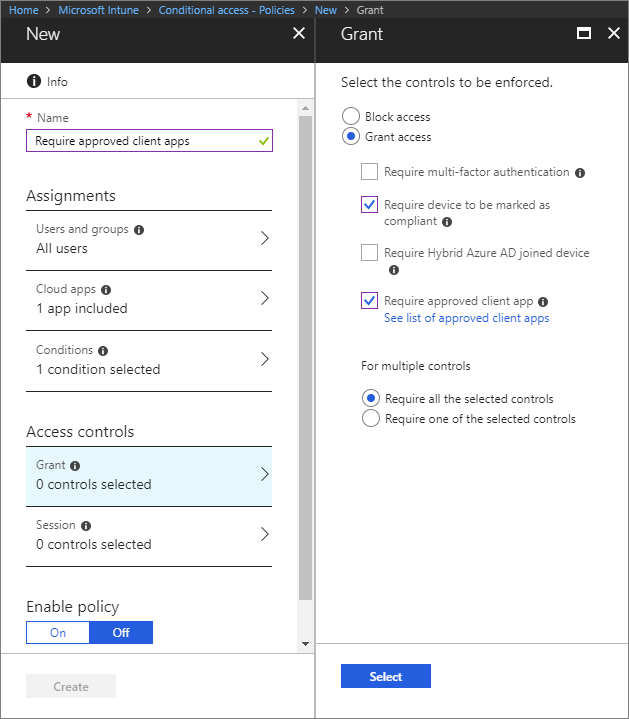
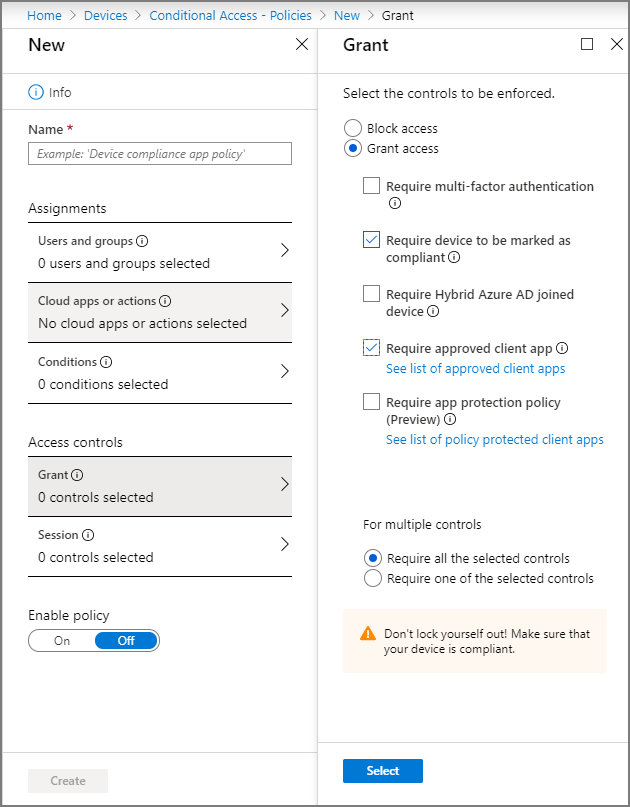
MEM revisions and general update

diff --git a/intune/protect/create-conditional-access-intune.md b/intune/protect/create-conditional-access-intune.md
@@ -8,7 +8,7 @@ keywords:
 author: brenduns
 ms.author: brenduns
 manager: dougeby
-ms.date: 02/22/2019
+ms.date: 11/18/2019
 ms.topic: conceptual
 ms.service: microsoft-intune
 ms.subservice: protect
@@ -30,76 +30,91 @@ ms.collection: M365-identity-device-management
 
 # Create a device-based Conditional Access policy
 
-With Intune, you can enhance Conditional Access in Azure Active Directory by adding mobile device compliance to the access controls. Once you’ve created an Intune compliance policy that defines the requirements for devices to be compliant, you can use a device’s compliance status to either allow or block access to your apps and services. You can do this by creating a Conditional Access policy that uses the setting **Require device to be marked as compliant**.  
+With Intune, enhance Conditional Access in Azure Active Directory by adding mobile device compliance to the access controls. With Intune compliance policy that defines requirements for devices to be compliant, you can use a device’s compliance status to either allow or block access to your apps and services. You can do this by creating a Conditional Access policy that uses the setting **Require device to be marked as compliant**.
 
-A Conditional Access policy specifies the app or services you want to protect, the conditions under which the apps or services can be accessed, and the users to whom the policy applies. Conditional Access is an Azure AD premium feature that is configurable in Azure Active Directory, but you can also set up these same policies from within the Intune portal. The Conditional Access node accessed from *Intune* is the same node as accessed from *Azure AD*.  
+A Conditional Access policy specifies the app or services you want to protect, the conditions under which the apps or services can be accessed, and the users the policy applies to. Although Conditional Access is an Azure AD premium feature, the Conditional Access node you access from *Intune* is the same node as accessed from *Azure AD*.
 
 > [!IMPORTANT]
 > Before you set up Conditional Access, you'll need to set up Intune device compliance policies to evaluate devices based on whether they meet specific requirements. See [Get started with device compliance policies in Intune](device-compliance-get-started.md).
 
 ## Create Conditional Access policy
 
-1. In the Intune portal, select **Conditional Access** > **Policies** > **New policy**.
-   
-    ![Create a new Conditional Access policy](./media/create-conditional-access-intune/create-ca.png)
- 
-2. Under **Assignments**, select **Users and groups**. 
-3. On the **Include** tab, identify the users or groups to whom you want this Conditional Access policy to apply. Once you’ve chosen whom to include, you can use the **Exclude** tab if there are any users, roles, or groups you want to exclude from this policy.  
-    - **All users**: Select this option to apply the policy to all users and groups, including internal and guest users.
-  
-    - **Select users and groups**: Select this option and specify one or more of the following options:
-  
-      a. **All guest users**: Select this option to include or exclude external guest users (for example, partners, external collaborators)
-       
-      b. **Directory roles**: Select one or more Azure AD roles to include or exclude users who are assigned these roles.
-      
-      c. **Users and groups**: Select this option to search for and select individual users or groups you want include or exclude.
-     
-       > [!TIP]  
-       > Test the policy against a smaller group of users to make sure it works as expected.
-4. Select **Done**.
-5. Under **Assignments**, select **Cloud apps**. 
-6. On the **Include tab**, identify the apps and services you want to protect with this Conditional Access policy. Then you can use the **Exclude** tab if there are any apps or services you want to exclude from this policy.
-    - **All cloud apps**: Select this option to apply the policy to all apps.
-      > [!IMPORTANT]  
-      > The Microsoft Azure Management app for access to the Azure portal is included in this list. Be sure to use the **Exclude** tab either here or in the **Users and groups** options to make sure you (or the users or groups you designate) will be able to sign in to the Azure portal. 
+1. Sign in to the [Microsoft Endpoint Manager Admin Center](https://go.microsoft.com/fwlink/?linkid=2109431).
 
-    - **Select apps**: Select this option, choose **Select**, and then use the applications list to search for and select the apps or services you want to protect.
-    
-      ![Configure assignments for Conditional Access policy](./media/create-conditional-access-intune/create-ca-select-apps.png)
+2. Select **Devices** > **Conditional Access** > **Policies** > **New policy**.
+  ![Create a new Conditional Access policy](./media/create-conditional-access-intune/create-ca.png)
 
-7. Select **Done**.
+3. Under **Assignments**, select **Users and groups**.
+
+4. On the **Include** tab, identify the users or groups that this Conditional Access policy applies to. Once you’ve chosen groups or users to include, use the **Exclude** tab if there are any users, roles, or groups you want to exclude from this policy.
+
+   - **All users**: Select this option to apply the policy to all users and groups, including internal and guest users.
+
+   - **Select users and groups**: Select this option and specify one or more of the following options:
+  
+     1. **All guest users**: Select this option to include or exclude external guest users (for example, partners, external collaborators)
+
+     2. **Directory roles**: Select one or more Azure AD roles to include or exclude users who are assigned these roles.
+
+     3. **Users and groups**: Select this option to search for and select individual users or groups you want include or exclude.
+
+        > [!TIP]
+        > Test the policy against a smaller group of users to make sure it works as expected.
+
+5. Select **Done**.
+
+6. Under **Assignments**, select **Cloud apps or actions**.
+
+7. On the **Include** tab, use available options to identify the apps and services you want to protect with this Conditional Access policy. Then you can use the **Exclude** tab if there are any apps or services you want to exclude from this policy.
+
+   - **All cloud apps**: Select this option to apply the policy to all apps.
+     > [!IMPORTANT]
+     > The Microsoft Azure Management app for access to the Azure portal is included in this list. Be sure to use the **Exclude** tab either here or in the **Users and groups** options to make sure you (or the users or groups you designate) will be able to sign in to the Azure portal. 
+
+   - **Select apps**: Select this option, choose **Select**, and then use the applications list to search for and select the apps or services you want to protect.
+
+   When ready, select **Done**.
+
 8. Under **Assignments**, select **Conditions**.
-    - **Sign-in risk**: Choose Yes to use Azure AD Identity Protection sign-in risk detection with this policy, and then choose the sign-in risk levels the policy should apply to.
-    - **Device platforms**: On the **Include** tab, identify the device platforms you want to this Conditional Access policy to apply to. Use the **Exclude** tab to exclude platforms from this policy.
-    - **Locations**: On the **Include** tab, specify whether the policy applies to any location, trusted network locations that are under the control of your IT department, or specific network locations. Use the **Exclude** tab to exclude network locations from this policy. 
-    - **Client apps**: Choose **Yes** to specify if the policy should apply to browser apps, mobile apps, and desktop clients. You can also select **Modern authentication clients** (such as Outlook for iOS or Outlook for Android) and **Exchange ActiveSync clients**.
-    - **Device state**: The Conditional Access policy will apply to all device states unless you choose Yes and specifically exclude the states Device Hybrid Azure AD joined or Device marked as compliant (or both).
-    
-      ![Set conditions for Conditional Access policy](./media/create-conditional-access-intune/create-ca-device-platforms.png)
 
-      > [!TIP]  
-      > If you want to protect both **Modern authentication** clients and **Exchange ActiveSync clients**, create two separate Conditional Access policies, one for each client type. Although Exchange ActiveSync supports modern authentication, the only condition that is supported by Exchange ActiveSync is platform. Other conditions, including multi-factor authentication, are not supported. To effectively protect access to Exchange Online from Exchange ActiveSync, create a Conditional Access policy that specifies the cloud app Office 365 Exchange Online and the client app Exchange ActiveSync with Apply policy only to supported platforms selected.
+   - **Sign-in risk**: Select *Yes* to use Azure AD Identity Protection sign-in risk detection with this policy, and then choose the sign-in risk levels the policy should apply to.
+
+   - **Device platforms**: On the **Include** tab, identify the device platforms you want to this Conditional Access policy to apply to. Use the **Exclude** tab to exclude platforms from this policy.
+
+   - **Locations**: On the **Include** tab, specify whether the policy applies to:
+     - Any location
+     - Trusted network locations that are under the control of your IT department
+     - Specific network locations.
+
+     Use the **Exclude** tab to exclude network locations from this policy.
+
+   - **Client apps**: Select *Yes* to specify if the policy should apply to browser apps, mobile apps, and desktop clients.
+
+   - **Device state**: The Conditional Access policy will apply to all device states unless you choose Yes and specifically exclude the states Device Hybrid Azure AD joined or Device marked as compliant (or both).
+
+     > [!TIP]
+     > If you want to protect both **Modern authentication** clients and **Exchange ActiveSync clients**, create two separate Conditional Access policies, one for each client type. Although Exchange ActiveSync supports modern authentication, the only condition that is supported by Exchange ActiveSync is platform. Other conditions, including multi-factor authentication, are not supported. To effectively protect access to Exchange Online from Exchange ActiveSync, create a Conditional Access policy that specifies the cloud app Office 365 Exchange Online and the client app Exchange ActiveSync with Apply policy only to supported platforms selected.
 
 9. Select **Done**.
+
 10. Under **Access controls**, select **Grant**. Configure what happens based on the conditions you’ve set up.  You can select from the following options:
+
     - **Block access**: The users specified in this policy will be denied access to the apps under the conditions you’ve specified.
     - **Grant access**: The users specified in this policy will be granted access, but you can require any of the following further actions:
       - **Require multi-factor authentication**: The user will need to complete additional security requirements, like a phone call or text.
-      - **Require device to be marked as compliant**: The device must be Intune compliant. If the device is noncompliant, the user will be given the option to enroll the device in Intune. 
+      - **Require device to be marked as compliant**: The device must be Intune compliant. If the device is noncompliant, the user will be given the option to enroll the device in Intune.
       - **Require Hybrid Azure AD joined device**: Devices must be Hybrid Azure AD joined.
       - **Require approved client app**: The device must use approved client apps. 
-      - **For multiple controls**: Select **Require all the selected controls** so that all of the requirements above are enforced when a device attempts to access the app.
-    
+      - **For multiple controls**: Select **Require all the selected controls** so that all of the requirements are enforced when a device attempts to access the app.
+
       ![Access controls Grant settings](./media/create-conditional-access-intune/create-ca-grant-access-settings.png)
- 
+
 11. Under **Enable policy**, select **On**.
-     
-     ![Enable the policy](./media/create-conditional-access-intune/enable-policy.png)
 
 12. Select **Create**.
 
 ## See also
+
 [App-based Conditional Access with Intune](app-based-conditional-access-intune.md)
 
 [Troubleshooting Intune Conditional Access](https://support.microsoft.com/help/4456106)

diff --git a/intune/protect/create-compliance-policy.md b/intune/protect/create-compliance-policy.md
@@ -7,7 +7,7 @@ keywords:
 author: brenduns
 ms.author: brenduns
 manager: dougeby
-ms.date: 10/21/2019
+ms.date: 11/18/2019
 ms.topic: conceptual
 ms.service: microsoft-intune
 ms.subservice: protect
@@ -65,19 +65,15 @@ To use device compliance policies, be sure you:
 
 ## Create the policy
 
-1. Sign in to [Intune](https://go.microsoft.com/fwlink/?linkid=2090973).
-2. Select **Device compliance**. You have the following options:
+1. Sign in to the [Microsoft Endpoint Manager Admin Center](https://go.microsoft.com/fwlink/?linkid=2109431).
 
-    - **Overview**: Shows a summary and number of devices that are compliant, not evaluated, and so on. It also lists the policies and individual settings in your policies. [Monitor Intune device compliance policies](compliance-policy-monitor.md) provides some good information.
-    - **Manage**: Create device policies, send [notifications](quickstart-send-notification.md) to non-compliant devices, and enable [network fencing](use-network-locations.md).
-    - **Monitor**: Check the compliance status of your devices, and at the setting and policy level. [Monitor Intune device compliance policies](compliance-policy-monitor.md) is a good resource. Also view logs and check the threat agent status of your devices.
-    - **Setup**: Use the [built-in compliance policies](device-compliance-get-started.md#ways-to-deploy-device-compliance-policies), enable [Microsoft Defender advanced threat protection (ATP)](advanced-threat-protection.md), add a [mobile threat defense connector](mobile-threat-defense.md), and use [Jamf](conditional-access-integrate-jamf.md).
+2. Select **Devices** > **Compliance policies** > **Create Policy**.
 
-3. Select **Policies** > **Create Policy**. Enter the following properties:
+3. Specify the following properties:
 
-   - **Name**: Enter a descriptive name for the policy. Name your policies so you can easily identify them later. For example, a good policy name is **Mark iOS jailbroken devices as not compliant**.  
+   - **Name**: Enter a descriptive name for the policy. Name your policies so you can easily identify them later. For example, a good policy name is **Mark iOS jailbroken devices as not compliant**.
 
-   - **Description**: Enter a description for the policy. This setting is optional, but recommended.  
+   - **Description**: Enter a description for the policy. This setting is optional, but recommended.
 
    - **Platform**: Choose the platform of your devices. Your options:
      - **Android device administrator**
@@ -103,7 +99,7 @@ To use device compliance policies, be sure you:
    - **Locations** *(Android device administrator)*: In your policy, you can force compliance by the location of the device. Choose from existing locations. Don't have a location yet? [Use Locations (network fence)](use-network-locations.md) in Intune provides some guidance.  
 
    - **Actions for noncompliance**: For devices that don't meet your compliance policies, you can add a sequence of actions to apply automatically. You can change the schedule when the device is marked non-compliant, such as after one day. You can also configure a second action that sends an email to the user when the device isn't compliant.
-    
+
      [Add actions for noncompliant devices](actions-for-noncompliance.md) provides more information, including creating a notification email to your users.
 
      For example, you're using the Locations feature, and add a location in a compliance policy. The default action for noncompliance applies when you select at least one location. If the device isn't connected to the selected locations, it's immediately considered not compliant. You can give your users a grace period, such as one day.
@@ -116,8 +112,10 @@ To use device compliance policies, be sure you:
 
 Once a policy is created, the next step is to assign the policy to your groups:
 
-1. Choose a policy you created. Existing policies are in **Device compliance** > **Policies**.
-2. Select the policy > **Assignments**. You can include or exclude Azure Active Directory (AD) security groups.
+1. Choose a policy you created. Existing policies are in **Devices** > **Compliance policies** > **Policies**.
+
+2. Select the *policy* > **Assignments**. You can include or exclude Azure Active Directory (AD) security groups.
+
 3. Choose **Selected groups** to see your Azure AD security groups. Select the groups you want this policy to apply > Choose **Save** to deploy the policy.
 
 The users or devices targeted by your policy are evaluated for compliance when they check-in with Intune.
@@ -126,8 +124,9 @@ The users or devices targeted by your policy are evaluated for compliance when t
 
 When you assign the policy, you can also **Evaluate** how many users are affected. This feature calculates users; it doesn't calculate devices.
 
-1. In Intune, select **Device compliance** > **Policies**.
-2. Select a policy > **Assignments** > **Evaluate**. A message shows you how many users are targeted by this policy.
+1. In Intune, select **Devices** > **Compliance policies** > **Policies**.
+
+2. Select a *policy* > **Assignments** > **Evaluate**. A message shows you how many users are targeted by this policy.
 
 If the **Evaluate** button is grayed out, make sure the policy is assigned to one or more groups.
 
